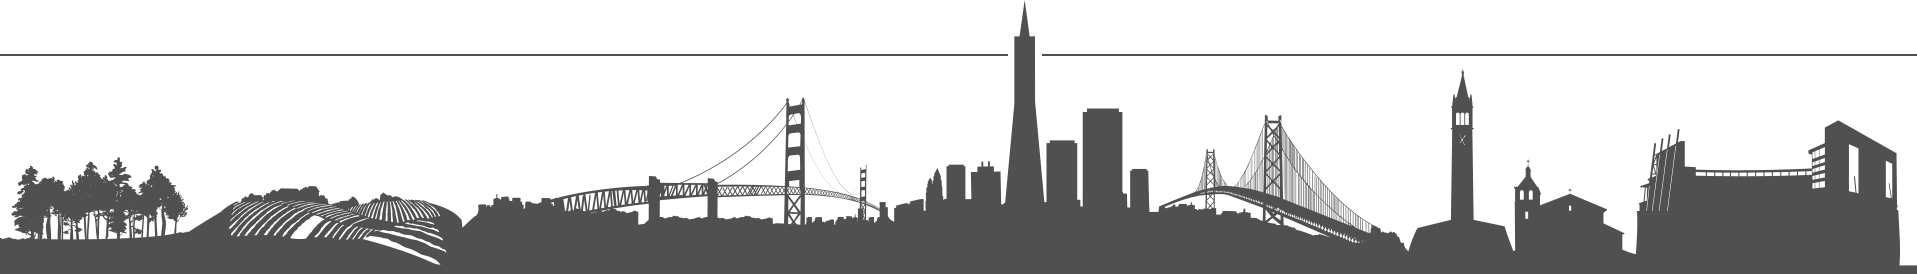
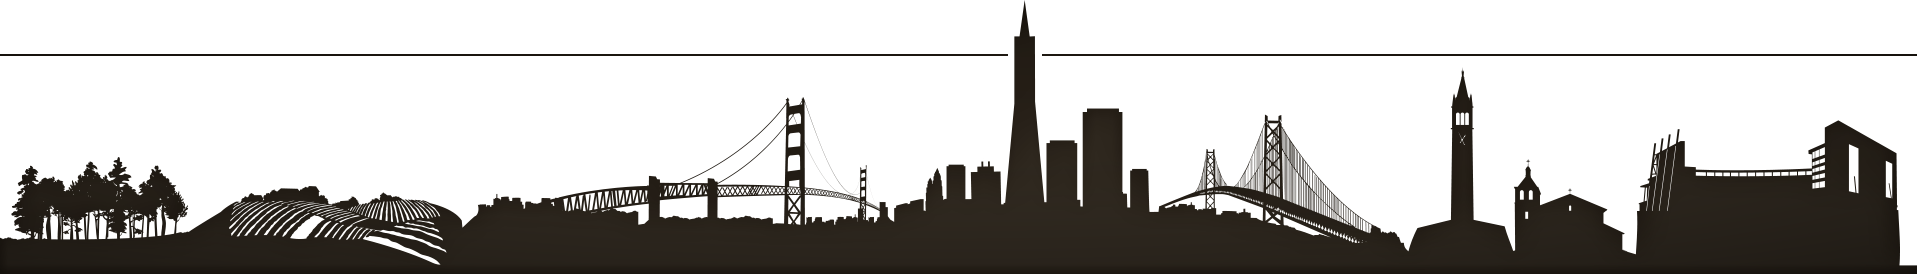
added background image/color scheme

diff --git a/static/jquery.bootstrap-autohidingnavbar.js b/static/jquery.bootstrap-autohidingnavbar.js
@@ -1,0 +1,210 @@
+;(function($, window, document, undefined) {
+  var pluginName = 'autoHidingNavbar',
+      $window = $(window),
+      $document = $(document),
+      _scrollThrottleTimer = null,
+      _resizeThrottleTimer = null,
+      _throttleDelay = 70,
+      _lastScrollHandlerRun = 0,
+      _previousScrollTop = null,
+      _windowHeight = $window.height(),
+      _visible = true,
+      _hideOffset,
+      defaults = {
+        disableAutohide: false,
+        showOnUpscroll: true,
+        showOnBottom: true,
+        hideOffset: 'auto', // "auto" means the navbar height
+        animationDuration: 200,
+        navbarOffset: 0
+      };
+
+  function AutoHidingNavbar(element, options) {
+    this.element = $(element);
+    this.settings = $.extend({}, defaults, options);
+    this._defaults = defaults;
+    this._name = pluginName;
+    this.init();
+  }
+
+  function hide(autoHidingNavbar) {
+    if (!_visible) {
+      return;
+    }
+
+    autoHidingNavbar.element.addClass('navbar-hidden').animate({
+      top: -1 * parseInt(autoHidingNavbar.element.css('height'), 10) + autoHidingNavbar.settings.navbarOffset
+    }, {
+      queue: false,
+      duration: autoHidingNavbar.settings.animationDuration
+    });
+
+    $('.dropdown.open .dropdown-toggle', autoHidingNavbar.element).dropdown('toggle');
+
+    _visible = false;
+
+    autoHidingNavbar.element.trigger('hide.autoHidingNavbar');
+  }
+
+  function show(autoHidingNavbar) {
+    if (_visible) {
+      return;
+    }
+
+    autoHidingNavbar.element.removeClass('navbar-hidden').animate({
+      top: 0
+    }, {
+      queue: false,
+      duration: autoHidingNavbar.settings.animationDuration
+    });
+    _visible = true;
+
+    autoHidingNavbar.element.trigger('show.autoHidingNavbar');
+  }
+
+  function detectState(autoHidingNavbar) {
+    var scrollTop = $window.scrollTop(),
+        scrollDelta = scrollTop - _previousScrollTop;
+
+    _previousScrollTop = scrollTop;
+
+    if (scrollDelta < 0) {
+      if (_visible) {
+        return;
+      }
+
+      if (autoHidingNavbar.settings.showOnUpscroll || scrollTop <= _hideOffset) {
+        show(autoHidingNavbar);
+      }
+    }
+    else if (scrollDelta > 0) {
+      if (!_visible) {
+        if (autoHidingNavbar.settings.showOnBottom && scrollTop + _windowHeight === $document.height()) {
+          show(autoHidingNavbar);
+        }
+        return;
+      }
+
+      if (scrollTop >= _hideOffset) {
+        hide(autoHidingNavbar);
+      }
+    }
+
+  }
+
+  function scrollHandler(autoHidingNavbar) {
+    if (autoHidingNavbar.settings.disableAutohide) {
+      return;
+    }
+
+    _lastScrollHandlerRun = new Date().getTime();
+
+    detectState(autoHidingNavbar);
+  }
+
+  function bindEvents(autoHidingNavbar) {
+    $document.on('scroll.' + pluginName, function() {
+      if (new Date().getTime() - _lastScrollHandlerRun > _throttleDelay) {
+        scrollHandler(autoHidingNavbar);
+      }
+      else {
+        clearTimeout(_scrollThrottleTimer);
+        _scrollThrottleTimer = setTimeout(function() {
+          scrollHandler(autoHidingNavbar);
+        }, _throttleDelay);
+      }
+    });
+
+    $window.on('resize.' + pluginName, function() {
+      clearTimeout(_resizeThrottleTimer);
+      _resizeThrottleTimer = setTimeout(function() {
+        _windowHeight = $window.height();
+      }, _throttleDelay);
+    });
+  }
+
+  function unbindEvents() {
+    $document.off('.' + pluginName);
+
+    $window.off('.' + pluginName);
+  }
+
+  AutoHidingNavbar.prototype = {
+    init: function() {
+      this.elements = {
+        navbar: this.element
+      };
+
+      this.setDisableAutohide(this.settings.disableAutohide);
+      this.setShowOnUpscroll(this.settings.showOnUpscroll);
+      this.setShowOnBottom(this.settings.showOnBottom);
+      this.setHideOffset(this.settings.hideOffset);
+      this.setAnimationDuration(this.settings.animationDuration);
+
+      _hideOffset = this.settings.hideOffset === 'auto' ? parseInt(this.element.css('height'), 10) : this.settings.hideOffset;
+      bindEvents(this);
+
+      return this.element;
+    },
+    setDisableAutohide: function(value) {
+      this.settings.disableAutohide = value;
+      return this.element;
+    },
+    setShowOnUpscroll: function(value) {
+      this.settings.showOnUpscroll = value;
+      return this.element;
+    },
+    setShowOnBottom: function(value) {
+      this.settings.showOnBottom = value;
+      return this.element;
+    },
+    setHideOffset: function(value) {
+      this.settings.hideOffset = value;
+      return this.element;
+    },
+    setAnimationDuration: function(value) {
+      this.settings.animationDuration = value;
+      return this.element;
+    },
+    show: function() {
+      show(this);
+      return this.element;
+    },
+    hide: function() {
+      hide(this);
+      return this.element;
+    },
+    destroy: function() {
+      unbindEvents(this);
+      show(this);
+      $.data(this, 'plugin_' + pluginName, null);
+      return this.element;
+    }
+  };
+
+  $.fn[pluginName] = function(options) {
+    var args = arguments;
+
+    if (options === undefined || typeof options === 'object') {
+      return this.each(function() {
+        if (!$.data(this, 'plugin_' + pluginName)) {
+          $.data(this, 'plugin_' + pluginName, new AutoHidingNavbar(this, options));
+        }
+      });
+    } else if (typeof options === 'string' && options[0] !== '_' && options !== 'init') {
+      var returns;
+
+      this.each(function() {
+        var instance = $.data(this, 'plugin_' + pluginName);
+
+        if (instance instanceof AutoHidingNavbar && typeof instance[options] === 'function') {
+          returns = instance[options].apply(instance, Array.prototype.slice.call(args, 1));
+        }
+      });
+
+      return returns !== undefined ? returns : this;
+    }
+
+  };
+
+})(jQuery, window, document);

diff --git a/static/styles.css b/static/styles.css
@@ -3,13 +3,17 @@ body{
 }
 
 .navbar-default{
-    margin-left: -20px;
+  margin-left: -20px;
 }
 
 #d3starfield {
-    background: linear-gradient( 0deg, #488AC7, #0000A0, #000080);
-    width: 800px;
-    height: 600px;
+  border-radius: 40px 40px 0 0;
+  border-width: 1px;
+  border-style: dotted;
+  border-color: black;
+  background: linear-gradient( 0deg, #488AC7, #0000A0, #000080);
+  width: 800px;
+  height: 600px;
 }
 
 #directionValues {
@@ -25,8 +29,8 @@ body{
 }
 
 .indented {
-    margin-left: 80px;
-    margin-bottom: 20px;
+  margin-left: 80px;
+  margin-bottom: 20px;
 }
 
 #direction {
@@ -111,10 +115,11 @@ body{
   left: 810px;
   top: 0%;
   position: absolute;
+  font-size: 15px;
 }
 
 select:disabled {
-  background-color: gray;
+  color: gray;
 }
 
 button:disabled {
@@ -127,4 +132,31 @@ button:disabled {
 
 .hidden {
   display: none;
+}
+
+body {
+  background-size: cover;
+  background-image: url("forest (2).jpeg");
+  background-repeat: no-repeat;
+  color:white;
+
+}
+
+nav{
+  color: white;
+  background-color: black;
+  opacity:0.8;
+
+}
+
+button {
+  background-color: black;
+}
+
+select {
+  background-color: black;
+}
+
+input {
+  background-color: black;
 }

diff --git a/templates/base.html b/templates/base.html
@@ -1,8 +1,7 @@
 <!doctype html>
 <html>
 <head>
-<title>Star View - {% block title %}PAGE TITLE GOES HERE{% endblock %}</title>
-<link rel="stylesheet" href='/static/styles.css'>
+<title>Bowl Full of Stars - {% block title %}PAGE TITLE GOES HERE{% endblock %}</title>
 <script src="http://code.jquery.com/jquery.js"></script>
 <!-- bootstrap -->
 <!-- Latest compiled and minified CSS -->
@@ -13,6 +12,8 @@
 
 <!-- Latest compiled and minified JavaScript -->
 <script src="https://maxcdn.bootstrapcdn.com/bootstrap/3.3.7/js/bootstrap.min.js" integrity="sha384-Tc5IQib027qvyjSMfHjOMaLkfuWVxZxUPnCJA7l2mCWNIpG9mGCD8wGNIcPD7Txa" crossorigin="anonymous"></script>
+
+<link rel="stylesheet" href='/static/styles.css'>
 </head>
 
 <body>

diff --git a/templates/generator.html b/templates/generator.html
@@ -1,7 +1,7 @@
 {% extends 'base.html' %}
 {% block title %}Sky{% endblock %}
 {% block content %}
-<h2>Star View</h2>
+<h2>Bowl Full of Stars</h2>
 <form id="direction">
     Select a direction:
     <select id="directionValues">
@@ -62,4 +62,10 @@
 <script src='/static/starsd3.js'></script>
 <script src="http://maps.googleapis.com/maps/api/js?key={{ secret }}&libraries=places"></script>
 <script src="static/jquery.geocomplete.js"></script>
+<script src="static/jquery.bootstrap-autohidingnavbar.js"></script>
+<script>
+jQuery(function($) {
+$("navbar-default").autoHidingNavbar();
+});
+</script>
 {% endblock %}

diff --git a/static/starsd3.js b/static/starsd3.js
@@ -256,7 +256,6 @@ function constellate(constellation_data){
                             d3.select('#v_const').append("div").append("img")
                                         .attr("src", "/static/images/"+d+".jpg")
                                         .attr("width", "200px")
-                                        // .attr("height","200px")
                                         .attr("x", -8)
                                         .attr("y", 200);})
                        .on("mouseout", function() {

diff --git a/templates/homepage.html b/templates/homepage.html
@@ -1,11 +1,13 @@
 {% extends 'base.html' %}
 {% block title %}Homepage{% endblock %}
 {% block nav_homepage %}active{% endblock %}
+<div id="home-body">
 {% block content %}
-
+<div id="home-body">
 <img src="http://www.publicdomainpictures.net/pictures/130000/velka/starry-night-background.jpg" alt="night sky" height="70" width="70">
-<h2>Star View</h2>
+<h2>Bowl Full of Stars</h2>
 <!-- <h7>observe the celestial nighttide</h7> -->
 <a href="/generator"><h4>Generate Star Map</h4></a>
 
 {% endblock %}
+</div>

diff --git a/generator_helpers.py b/generator_helpers.py
@@ -134,6 +134,7 @@ def get_planet_info(date, lat, lon, direction):
     observer.lon = lon
     observer.date = date
 
+    sun = {"name": "Sun", "info": ephem.Sun(), "color": "#ffffcc"}
     mercury = {"name": "Mercury", "info": ephem.Mercury(), "color": "##ffe5bf"}
     venus = {"name": "Venus", "info": ephem.Venus(), "color": "white"}
     moon = {"name": "Moon", "info": ephem.Moon(), "color": "#fffcf9"}
@@ -143,7 +144,7 @@ def get_planet_info(date, lat, lon, direction):
     uranus = {"name": "Uranus", "info": ephem.Uranus(), "color": "#d4fcd6"}
     neptune = {"name": "Neptune", "info": ephem.Neptune(), "color": "#bad4ff"}
 
-    planets = [mercury, venus, moon, mars, jupiter, saturn, uranus, neptune]
+    planets = [sun, mercury, venus, moon, mars, jupiter, saturn, uranus, neptune]
 
     planet_info = []
     for planet in planets:
